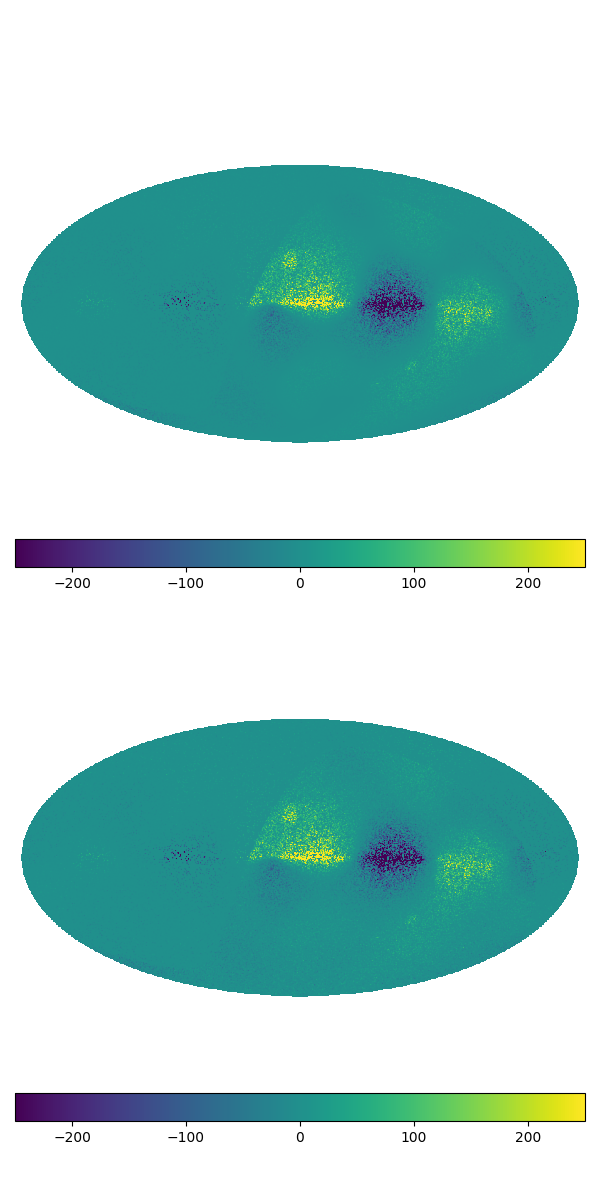
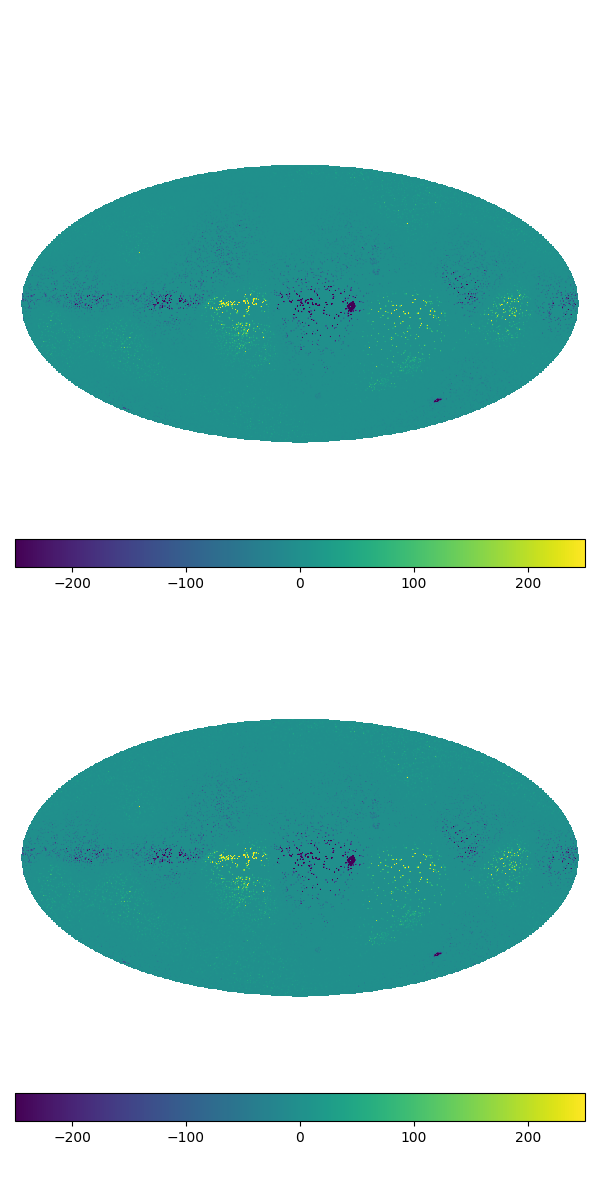
Smooth DM map available, sampling from F at z.

diff --git a/catalog_maker.py b/catalog_maker.py
@@ -6,13 +6,31 @@ import healpy as hp
 from src.helper_functions.misc import gal2gal
 from mock_seb23 import seb23
 from astropy.io import fits
-#from scipy.stats import rv_histogram
+from scipy.stats import rv_histogram
 import matplotlib.pyplot as plt
 import matplotlib
 from nifty_cmaps import ncmap
 matplotlib.use('TkAgg')
 import utilities as U
 import random
+from astropy.cosmology import FlatLambdaCDM
+import math as m
+
+#cosmo and constants
+
+light_speed =  Egf.const['c']
+h =  Egf.const['Jens']['h']
+Wm = Egf.const['Jens']['Wm']
+Wc = Egf.const['Jens']['Wc']
+Wl = Egf.const['Jens']['Wl']
+H0 = 100 * h
+    
+cosmo = FlatLambdaCDM(H0=H0, Om0=Wm)  
+L0 = float(Egf.const['L0'])
+D0 = Egf.const['D0']
+factor = float(Egf.const['factor'])
+
+
 
 class CatalogMaker():
 
@@ -34,12 +52,17 @@ class CatalogMaker():
         
         z_indices = ~np.isnan(data['z_best'])
 
-        e_rm = np.array(data['rm'][z_indices])
+
         e_z = np.array(data['z_best'][z_indices])
         e_z_orig = e_z
+        Dl_orig=cosmo.luminosity_distance(e_z_orig).value
+
         e_F = np.array(data['stokesI'][z_indices])
         e_F_orig_at_z = e_F
+        e_L_orig_at_z=e_F_orig_at_z*4*m.pi*Dl_orig**2*factor
+        
 
+        e_rm = np.array(data['rm'][z_indices])
 
         #los=self.params['params_mock_cat.maker_params.n_los']
 
@@ -57,11 +80,13 @@ class CatalogMaker():
         np.random.seed(seed=self.params['params_mock_cat.maker_params.seed'])
         z_mock_indices=np.unique(np.random.choice(b_sel_indices, size=los))
         #z_mock_indices=np.unique(self.rng.choice(b45_indices, size=los))
-        print('Number of LOS', len(z_mock_indices), self.params['params_mock_cat.maker_params.multiple'], dest_data['b'].size, los , b_sel_indices.size)
+        print('Number of LOS with redshift', len(z_mock_indices))
+        print('Total number of LOS in the catalog', dest_data['b'].size)
 
 
         #histogram_z = rv_histogram(np.histogram(e_z, bins=100), density=True)
         #z_mock=histogram_z.rvs(size=z_mock_indices.size)
+        #e_z_nvss=np.load('../../DATA/REDSHIFTS/z_nvss.npy')
         z_mock=np.random.choice(e_z,size=z_mock_indices.size) 
 
         dest_data['z_best'][:] = np.nan
@@ -75,17 +100,29 @@ class CatalogMaker():
         #creating mock fluxes
         #histogram_F = rv_histogram(np.histogram(F_sample, bins=10000), density=False)
         #F_mock=histogram_F.rvs(size=len(data['stokesI']))
-        F_mock=np.random.choice(F_sample,size=len(dest_data['stokesI'])) 
+        #F_mock=np.random.choice(F_sample,size=len(dest_data['stokesI'])) 
+        F_mock=np.random.choice(e_F_orig_at_z,size=len(dest_data['stokesI'])) 
+
+
+
 
         dest_data['stokesI'] = F_mock
 
         # new filter
         z_indices = ~np.isnan(dest_data['z_best'])
+
         e_z = np.array(dest_data['z_best'][z_indices])
+        Dl=cosmo.luminosity_distance(e_z).value
+        
         e_F = np.array(dest_data['stokesI'][z_indices])
-        e_rm = np.array(dest_data['rm'][z_indices])
+        e_L = e_F*4*m.pi*Dl**2*factor
+        
         #g_rm = np.array(data['rm'][~z_indices])
+        e_rm = np.array(dest_data['rm'][z_indices])
         lerm = len(e_rm)
+
+
+
 
         eg_l = np.array(dest_data['l'])
         eg_b = np.array(dest_data['b'])
@@ -97,7 +134,11 @@ class CatalogMaker():
         
         eg_projector = Egf.SkyProjector(ift.makeDomain(ift.HPSpace(self.params['params_inference.nside'])), ift.makeDomain(ift.UnstructuredDomain(lthetaeg)), theta=theta_eg, phi=phi_eg)
 
-        if(self.params['params_mock_cat.maker_params.maker_type'] == "seb23"):
+
+
+
+
+        if(self.params['params_mock_cat.maker_params.maker_type'] == "seb23" or self.params['params_mock_cat.maker_params.maker_type'] == "ymw16" ):
 
             rm_gal, b, dm =seb23(self.params)
 
@@ -119,7 +160,7 @@ class CatalogMaker():
             hp.mollview(0.81*dm.val*b.val,min=-250, max=250, title='$\\phi_{gal}$ [rad m$^{-2}$]', cmap=getattr(ncmap, 'fm')())
             plt.savefig('RM.png', bbox_inches='tight')
 
-        else: #CONSISTENT catalog
+        if(self.params['params_mock_cat.maker_params.maker_type'] == "consistent"): #CONSISTENT catalog
             galactic_model = U.get_galactic_model(sky_domain, self.params)
             
             gal_mock_position = ift.from_random(galactic_model.get_model().domain, 'normal')
@@ -297,22 +338,36 @@ class CatalogMaker():
 
             axs[2,1].set_xlabel('z')
             axs[2,0].set_xlabel('Stokes I (Jy)')
+            #axs[2,0].set_xlabel('Normalized Luminosity')
+
             axs[0,0].set_ylabel('Mock $\\phi_{eg}$ (rad/m$^2$)')
             axs[0,1].set_ylabel('Mock $\\phi_{eg}$ (rad/m$^2$)')
             axs[0,1].scatter(e_z, egal_contr, s=5, c='green')
 
-            axs[2,1].hist(e_z_orig, bins=100, density=True, color='lightgrey')
-            axs[1,1].hist(e_z, bins=100, density=True, color='green')
+            axs[2,1].hist(e_z_orig, bins=100, density=False, color='lightgrey')
+            axs[1,1].hist(e_z, bins=100, density=False, color='green')
 
             axs[0,0].scatter(e_F, egal_contr, s=5, c='green')
+            #axs[0,0].scatter(e_L/L0, egal_contr, s=5, c='green')
 
-            hist, bins = np.histogram(e_F_orig, bins=100)
+            hist, bins = np.histogram(e_F_orig_at_z, bins=100)
             logbins = np.logspace(np.log10(bins[0]),np.log10(bins[-1]),len(bins))
-            axs[2,0].hist(e_F_orig, bins=logbins,  density=True, color='lightgrey')
+            axs[2,0].hist(e_F_orig_at_z, bins=logbins,  density=False, color='lightgrey')
 
             hist, bins = np.histogram(e_F, bins=100)
             logbins = np.logspace(np.log10(bins[0]),np.log10(bins[-1]),len(bins))
-            axs[1,0].hist(e_F, bins=logbins,  density=True, color='green')
+            axs[1,0].hist(e_F, bins=logbins,  density=False, color='green')
+
+
+
+            #hist, bins = np.histogram(e_L_orig_at_z/L0, bins=100)
+            #logbins = np.logspace(np.log10(bins[0]),np.log10(bins[-1]),len(bins))
+            #axs[2,0].hist(e_L_orig_at_z/L0, bins=logbins,  density=False, color='lightgrey')
+
+            #hist, bins = np.histogram(e_L/L0, bins=100)
+            #logbins = np.logspace(np.log10(bins[0]),np.log10(bins[-1]),len(bins))
+            #axs[1,0].hist(e_L/L0, bins=logbins,  density=False, color='green')
+
 
             axs[0,0].set_xlim(0.0001,22000)
             axs[1,0].sharex(axs[2,0])
@@ -322,7 +377,8 @@ class CatalogMaker():
             axs[2,0].set_xscale('log')
 
             axs[0,0].set_ylim(-150,150)
-            axs[1,0].set_ylim(0,6.9)
+            axs[1,0].set_ylim(0,4999)
+            #axs[1,0].set_ylim(0.1,1499)
             axs[2,0].sharey(axs[1,0])
 
 
@@ -331,7 +387,8 @@ class CatalogMaker():
             axs[0,1].sharex(axs[2,1])
 
             axs[0,1].set_ylim(-150,150)
-            axs[1,1].set_ylim(0,1.9)
+            #axs[1,1].set_ylim(0,1.9)
+            axs[1,1].set_ylim(0,2900)
             axs[2,1].sharey(axs[1,1])
 
             axs[2,0].set_ylabel('Observed #')
@@ -341,7 +398,7 @@ class CatalogMaker():
 
 
             plt.subplots_adjust(wspace=0.5, hspace=0)
-            plt.savefig('Luminosityand_z_dependence.png', bbox_inches='tight')
+            plt.savefig('Luminosity_and_z_dependence.png', bbox_inches='tight')
 
 
         noised_rm_data=ift.makeField(ift.UnstructuredDomain(ltheta), rm_data)

diff --git a/mock_seb23.py b/mock_seb23.py
@@ -15,9 +15,11 @@ def seb23(params):
     N=Egf.config['params_inference']['nside']  #number of pixels
     A = 0.81    # Constant in front of the RM integral in order to have rad/m^2. In that case B is in muG, n is in cm^-3 and the distance in parsec
     
-    data = fits.open(params['params_inference.dm_path']+'DM_mean_std_Sebastian.fits')
-
-    dm_new_ar=data[1].data['mean']
+    if(params['params_mock_cat.maker_params.maker_type'] == "seb23"):
+        data = fits.open(params['params_inference.dm_path']+'DM_mean_std_Sebastian.fits')
+        dm_new_ar=data[1].data['mean']
+    if(params['params_mock_cat.maker_params.maker_type'] == "ymw16" ):
+        dm_new_ar=np.load(params['params_inference.dm_path']+'ymw16_dm_map.npy')
 
     s_space = ift.HPSpace(N)
     s_space_domain = ift.makeDomain(ift.HPSpace(N))
